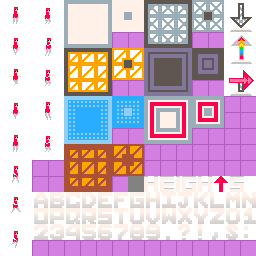
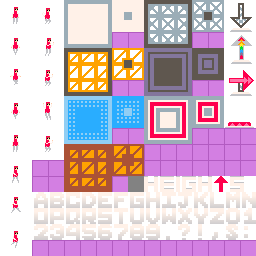
Jump pads and high refresh rate support

Changed region(s): [[0.875, 0.375, 1.0, 0.5]]

diff --git a/Shared/Player.cs b/Shared/Player.cs
@@ -6,6 +6,7 @@ public class Player
 {
     public const int StartingScore = 1000;
     private const float JumpForce = 1.5f;
+    private const float JumpPadForceMultiplier = 3f;
     private const float ExtraHeightGravityMultiplier = 0.5f;
     private const float Speed = 100f;
     private static readonly Vector2 HitBoxSize = new(8f, 14f);
@@ -27,9 +28,11 @@ public class Player
 
     public void Move(float horizontalDir, bool tryJump, MapData mapData, float deltaTime)
     {
+        TileData tileAtPlayer = mapData.GetTileDataAtWorldPos(Position);
+
         Vector2 newPosition = Position;
         Vector2 move = Vector2.Zero;
-
+        
         move.X = horizontalDir;
 
         Direction = move.X switch
@@ -53,6 +56,11 @@ public class Player
         float gravityMultiplier = extraHeight && velocity < 0f ? ExtraHeightGravityMultiplier : 1.0f;
         velocity += gravityMultiplier * Physics.Gravity * deltaTime;
 
+        if (tileAtPlayer.Effect == mapData.Effect["Jump"])
+        {
+            velocity = -JumpForce * JumpPadForceMultiplier;
+        }
+        
         if (tryJump)
         {
             if (grounded)
@@ -69,12 +77,10 @@ public class Player
         move.Y = velocity;
 
         newPosition.Y += move.Y * Speed * deltaTime;
-        grounded = false;
+        grounded = velocity > 0f && mapData.IsCollidingWith(Position + new Vector2(0f, 1f), HitBoxSize);
 
         if (mapData.IsCollidingWith(newPosition, HitBoxSize))
         {
-            if (velocity > 0f) grounded = true;
-
             newPosition.Y = GetMaxPosInTile(Position.Y, HitBoxSize.Y, move.Y, mapData.TileSize);
             velocity = 0f;
         }

diff --git a/GameClient/GameClient.cs b/GameClient/GameClient.cs
@@ -30,6 +30,7 @@ public class GameClient : Game
         IsMouseVisible = true;
         Window.AllowUserResizing = true;
         InactiveSleepTime = TimeSpan.Zero; // Don't throttle FPS when the window is inactive.
+        IsFixedTimeStep = false;
         graphics.PreferredBackBufferWidth = VirtualScreenWidth * WindowDefaultSizeMultiplier;
         graphics.PreferredBackBufferHeight = VirtualScreenHeight * WindowDefaultSizeMultiplier;
         graphics.ApplyChanges();
@@ -56,9 +57,10 @@ public class GameClient : Game
     protected override void Update(GameTime gameTime)
     {
         var deltaTime = (float)gameTime.ElapsedGameTime.TotalSeconds;
-
+        
         input.Update();
-        if (gameStateInitialized)
+        // Don't update if delta time is too large, to preserve physics/other systems.
+        if (deltaTime < 0.1f && gameStateInitialized)
             gameState?.Update(input, deltaTime);
 
         base.Update(gameTime);

diff --git a/GameClient/InGameState.cs b/GameClient/InGameState.cs
@@ -1,4 +1,5 @@
-using System.Collections.Generic;
+using System;
+using System.Collections.Generic;
 using System.Linq;
 using Messaging;
 using Microsoft.Xna.Framework;
@@ -44,8 +45,7 @@ public class InGameState : IGameState
             input.IsKeyDown(Keys.Escape))
             gameClient.SwitchGameState(GameState.MainMenu);
 
-        // TODO: This shouldn't be available in a release.
-        if (input.WasKeyPressed(Keys.R))
+        if (input.IsKeyDown(Keys.LeftControl) && input.WasKeyPressed(Keys.R))
         {
             map = new Map("Content/map.json");
         }

diff --git a/GameServer/GameServer.cs b/GameServer/GameServer.cs
@@ -12,7 +12,6 @@ public class GameServer
     private readonly MapData mapData;
 
     private readonly Dictionary<int, Player> players = new();
-    private readonly float interactDistance;
     private float heartbeatTimer;
     private float scoreDecayTimer;
 
@@ -20,7 +19,6 @@ public class GameServer
     {
         mapData = MapData.LoadFromFile("Content/map.json");
         mapData.FindSpawnPoint();
-        interactDistance = mapData.TileSize * 0.5f;
 
         Dictionary<Message.MessageType, MessageStream.MessageHandler> messageHandlers = new()
         {

diff --git a/Messaging/MessageStream.cs b/Messaging/MessageStream.cs
@@ -10,7 +10,7 @@ public class MessageStream
     public delegate void OnDisconnect(int id);
 
     public const int DataBufferSize = 1024;
-    private const long TimeoutMs = 5000;
+    private const long TimeoutMs = 30000;
 
     private readonly byte[] incomingDataBuffer = new byte[DataBufferSize];
     private readonly List<byte> storedData = new();
